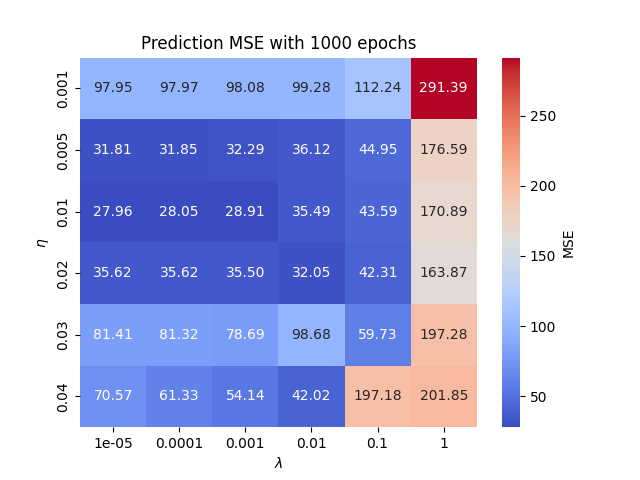
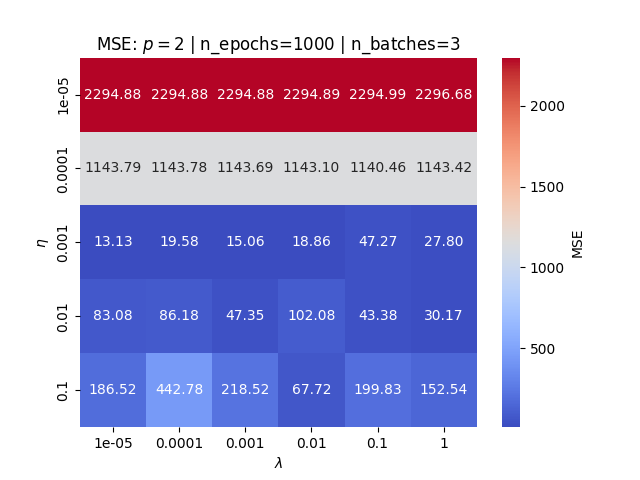
almost finished b, finished c

diff --git a/project2/source-code/mortens-code/part_b&c_regression.py b/project2/source-code/mortens-code/part_b&c_regression.py
@@ -7,6 +7,7 @@ import numpy as np
 import matplotlib.pyplot as plt
 import seaborn as sns
 from sklearn.model_selection import train_test_split
+from sklearn.neural_network import MLPRegressor  # neural network from sckikit-learn for comparision
 from sklearn.metrics import r2_score
 
 # Parameters
@@ -15,20 +16,22 @@ noise_std = 1  # standard deviation of noise
 xmax = 5  # max x value
 
 lmbda = 0.0001  # shrinkage  hyperparameter lambda
-eta = 0.01  # learning rate
-degree = 1  # max polynomial degree for design matrix
+eta = 0.001  # learning rate
+n_batches = 3  # no. minibatches for sgd
+degree = 2  # max polynomial degree for design matrix
 n_epochs = 1000  # no. epochs/iterations for nn training
 rng_seed = 2023  # seed for generating psuedo-random values, helps withbugging purposes
 
 # Grid plot parameters
-eta_vals = np.asarray([0.001, 0.005, 0.01, 0.02, 0.03, 0.04])#0.05, 0.1, 0.2, 0.3, 0.4])  # learning rates
-lmbd_vals = np.logspace(-5, 0, 6) # regularization rates
+eta_vals = np.logspace(-5, -1, 5)  # learning rates
+lmbd_vals = np.logspace(-5, 0, 6)  # regularization rates
 
 # Create data set
 rng = np.random.default_rng(rng_seed)
-x = rng.uniform(-xmax, xmax, size=(n, 1))#.reshape(-1, 1)
+x = rng.uniform(-xmax, xmax, size=(n, 1))  # .reshape(-1, 1)
 noise = rng.normal(0, noise_std, x.shape)
-y = 2 + 3*x + 4*x**2 + noise
+y = 2 + 3 * x + 4 * x**2 + noise
+
 
 def create_X_1d(x, n):
     """Returns the design matrix X from coordinates x with n polynomial degrees."""
@@ -36,7 +39,7 @@ def create_X_1d(x, n):
         x = np.ravel(x)
 
     N = len(x)
-    X = np.ones((N, n+1))
+    X = np.ones((N, n + 1))
 
     for p in range(1, n + 1):
         X[:, p] = x**p
@@ -51,22 +54,23 @@ X_train = create_X_1d(x_train, degree)
 X_test = create_X_1d(x_test, degree)
 
 nn = FFNN(
-    dimensions=[X_train.shape[1], 50, 1],
-    hidden_func=sigmoid,
-    output_func=identity,
-    cost_func=cost_ols,
-    seed=rng_seed,
+        dimensions=[X_train.shape[1], 50, 1],
+        hidden_func=sigmoid,
+        output_func=identity,
+        cost_func=cost_ols,
+        seed=rng_seed,
 )
 
-scores = nn.fit(
+nn.fit(
         X=X_train,
         t=y_train,
         lam=lmbda,
         epochs=n_epochs,
-        scheduler=Constant(eta=eta),
-        # scheduler=Adam(eta=eta, rho=0.01, rho2=0.01),
-        batches=1,
+        scheduler=Adam(eta=eta, rho=0.9, rho2=0.999),
+        # scheduler=Constant(eta=eta),
+        batches=n_batches,
 )
+
 
 def print_pred():
     pred = nn.predict(X_test)
@@ -77,6 +81,7 @@ def print_pred():
     print("\nPredictions:")
     print(pred.ravel())
 
+
 def plot_pred(filename: str = ""):
     pred = nn.predict(X_test)
 
@@ -85,9 +90,12 @@ def plot_pred(filename: str = ""):
     test_r2 = r2_score(y_test, pred)
     sort_order = np.argsort(x_test.ravel())
     x_sort = x_test.ravel()[sort_order]
+
+    plt.figure()
     plt.scatter(x_sort, y_test.ravel()[sort_order], 5, label="Test data")
     plt.plot(x_sort, pred.ravel()[sort_order], "r-", label="Prediction fit")
-    plt.title(f"$p={degree}$ | $\eta={eta}$ | $\lambda={lmbda}$ | {n_epochs=} | mse={test_mse:.1f} | r2={test_r2:.2f}")
+    plt.title(f"$p={degree}$ | $\eta={eta}$ | $\lambda={lmbda}$ | {n_epochs=} "
+              f"\n{n_batches=} | mse={test_mse:.1f} | r2={test_r2:.2f}")
     plt.legend()
 
     if filename:
@@ -96,38 +104,29 @@ def plot_pred(filename: str = ""):
     else:
         plt.show()
 
-def plot_mse_grid(filename: str = ""):
-    # PLOT MSE AS FUNC OF LAMBDA AND ETA
-    # Iterate through parameters -> train -> save mse to heatmap
-    mse_scores = np.zeros((eta_vals.size, lmbd_vals.size))
-    for i, eta in enumerate(eta_vals):
-        for j, lmbd in enumerate(lmbd_vals):
-            nn.reset_weights()
-            nn.fit(
-                    X=X_train,
-                    t=y_train,
-                    lam=lmbd,
-                    epochs=n_epochs,
-                    scheduler=Constant(eta=eta),
-                    # scheduler=Adam(eta=eta, rho=0.01, rho2=0.01),
-                    batches=1,
-            )
-            pred = nn.predict(X_test)
-            mse_scores[i, j] = cost_ols(y_test)(pred)
 
-    # MSE heatmap
-    sns.heatmap(
-            mse_scores,
-            annot=True,
-            fmt=".2f",
-            xticklabels=[f"{lmbd:g}" for lmbd in lmbd_vals],
-            yticklabels=[f"{eta:g}" for eta in eta_vals],
-            cbar_kws={"label": "MSE"},
-            cmap="coolwarm",
-    )
-    plt.title(f"Prediction MSE with {n_epochs} epochs")
-    plt.xlabel("$\lambda$")
-    plt.ylabel("$\eta$")
+def plot_pred_scikit(filename: str = ""):
+    nn_sk = MLPRegressor(hidden_layer_sizes=(50,), activation='logistic',
+                         alpha=lmbda, learning_rate_init=eta, solver="sgd",
+                         learning_rate="adaptive", max_iter=n_epochs,
+                         batch_size=n_batches, random_state=rng_seed, momentum=0,
+                         )
+    nn_sk.fit(X_train, y_train.ravel())
+
+    pred = nn_sk.predict(X_test)
+
+    # PLOT DATA AND PREDICTION
+    test_mse = cost_ols(y_test)(pred)
+    test_r2 = r2_score(y_test, pred)
+    sort_order = np.argsort(x_test.ravel())
+    x_sort = x_test.ravel()[sort_order]
+
+    plt.figure()
+    plt.scatter(x_sort, y_test.ravel()[sort_order], 5, label="Test data")
+    plt.plot(x_sort, pred.ravel()[sort_order], "r-", label="Prediction fit")
+    plt.title(f"$p={degree}$ | $\eta={eta}$ | $\lambda={lmbda}$ | {n_epochs=} "
+              f"\n{n_batches=} | mse={test_mse:.1f} | r2={test_r2:.2f}")
+    plt.legend()
 
     if filename:
         plt.savefig(filename)
@@ -135,10 +134,12 @@ def plot_mse_grid(filename: str = ""):
     else:
         plt.show()
 
-def plot_r2_grid(filename: str = ""):
-    # PLOT r2 AS FUNC OF LAMBDA AND ETA
 
-    # Iterate through parameters -> train -> save r2 to heatmap
+def plot_mse_r2_grid(filename_mse: str = "", filename_r2: str = ""):
+    # PLOT MSE AND R2 AS FUNC OF LAMBDA AND ETA
+
+    # Iterate through parameters -> train -> save mse and r2 to heatmap
+    mse_scores = np.zeros((eta_vals.size, lmbd_vals.size))
     r2_scores = np.zeros((eta_vals.size, lmbd_vals.size))
     for i, eta in enumerate(eta_vals):
         for j, lmbd in enumerate(lmbd_vals):
@@ -148,34 +149,60 @@ def plot_r2_grid(filename: str = ""):
                     t=y_train,
                     lam=lmbd,
                     epochs=n_epochs,
-                    scheduler=Constant(eta=eta),
-                    # scheduler=Adam(eta=eta, rho=0.01, rho2=0.01),
-                    batches=1,
+                    scheduler=Adam(eta=eta, rho=0.9, rho2=0.999),
+                    # scheduler=Constant(eta=eta),
+                    batches=n_batches,
             )
             pred = nn.predict(X_test)
+            mse_scores[i, j] = cost_ols(y_test)(pred)
             r2_scores[i, j] = r2_score(y_test, pred)
 
     # MSE heatmap
+    plt.figure()
+    sns.heatmap(
+            mse_scores,
+            annot=True,
+            fmt=".2f",
+            xticklabels=[f"{lmbd:g}" for lmbd in lmbd_vals],
+            yticklabels=[f"{eta:g}" for eta in eta_vals],
+            cbar_kws={"label": "MSE"},
+            cmap="coolwarm",
+    )
+    plt.title(f"MSE: $p={degree}$ | {n_epochs=} | {n_batches=}")
+    plt.xlabel("$\lambda$")
+    plt.ylabel("$\eta$")
+
+    if filename_mse:
+        plt.savefig(filename_mse)
+
+    else:
+        plt.show()
+
+    # R2 heatmap
+    plt.figure()
     sns.heatmap(
             r2_scores,
             annot=True,
             fmt=".2f",
             xticklabels=[f"{lmbd:g}" for lmbd in lmbd_vals],
             yticklabels=[f"{eta:g}" for eta in eta_vals],
-            cbar_kws={"label": "MSE"},
+            cbar_kws={"label": "R2 score"},
             cmap="viridis",
     )
-    plt.title(f"Prediction R2 score with {n_epochs} epochs")
+    plt.title(f"R2: $p={degree}$ | {n_epochs=} | {n_batches=}")
     plt.xlabel("$\lambda$")
     plt.ylabel("$\eta$")
 
-    if filename:
-        plt.savefig(filename)
+    if filename_r2:
+        plt.savefig(filename_r2)
 
     else:
         plt.show()
 
 
-plot_pred("../../results/figures/part_b_pred.png")
-# plot_r2_grid("../../results/figures/part_b_r2_grid.png")
-# plot_mse_grid("../../results/figures/part_b_mse_grid.png")
+# plot_pred("../../results/figures/part_b_pred.png")
+plot_pred_scikit("../../results/figures/part_b_pred_scikit.png")
+# plot_mse_r2_grid(
+#         "../../results/figures/part_b_mse_grid.png",
+#         "../../results/figures/part_b_r2_grid.png"
+# )

diff --git a/project2/source-code/part_b_ffnn.py b/project2/source-code/part_b_ffnn.py
@@ -70,8 +70,12 @@ class FFNN:
         self._weights = list()
         self._biases = list()
         for i in range(len(self.dimensions) - 1):
-            weight_array = self.rng.standard_normal(size=(self.dimensions[i], self.dimensions[i + 1]))
-            bias_array = self.rng.standard_normal(size=self.dimensions[i + 1]) * 0.01
+            # weight_array = self.rng.standard_normal(size=(self.dimensions[i], self.dimensions[i + 1]))
+            # bias_array = self.rng.standard_normal(size=self.dimensions[i + 1]) * 0.01
+            weight_array = np.random.randn(
+                    self.dimensions[i], self.dimensions[i + 1]
+            )
+            bias_array = np.random.randn(self.dimensions[i + 1]) * 0.01
 
             self._weights.append(weight_array)
             self._biases.append(bias_array)
@@ -125,7 +129,7 @@ class FFNN:
                 if self.classification:
                     accuracies[e] = accuracy_score(target, pred)
 
-                # printing progress bar
+                # Print progress bar
                 if prnt:
                     progression = e / epochs
                     print_length = self._progress_bar(

diff --git a/project2/source-code/testing.py b/project2/source-code/testing.py
@@ -5,18 +5,19 @@ from part_b_cost import cost_ols
 import numpy as np
 
 # Parameters
-n = 50  # no. data points
+n = 100  # no. data points
 noise_std = 1  # standard deviation of noise
+xmax = 5  # max x value
 
-lmbda = 0.001  # shrinkage hyperparameter lambda
+lmbda = 0.0001  # shrinkage  hyperparameter lambda
 eta = 0.01  # learning rate
-degree = 3  # polynomial degree for design matrix
+degree = 1  # max polynomial degree for design matrix
 n_epochs = 1000  # no. epochs/iterations for nn training
 rng_seed = 2023  # seed for generating psuedo-random values, helps withbugging purposes
 
 # Create data set
 rng = np.random.default_rng(rng_seed)
-x = 4 * rng.random((n, 1))#.reshape(-1, 1)
+x = rng.uniform(-xmax, xmax, size=(n, 1))#.reshape(-1, 1)
 noise = rng.normal(0, noise_std, x.shape)
 y = 2 + 3*x + 4*x**2# + noise
 
@@ -56,4 +57,7 @@ print("\nData:")
 print(y.ravel())
 print("\nPredictions:")
 print(pred.ravel())
+
+print(nn._z_matrices[1])
+print(sigmoid(nn._z_matrices[1]))
 
